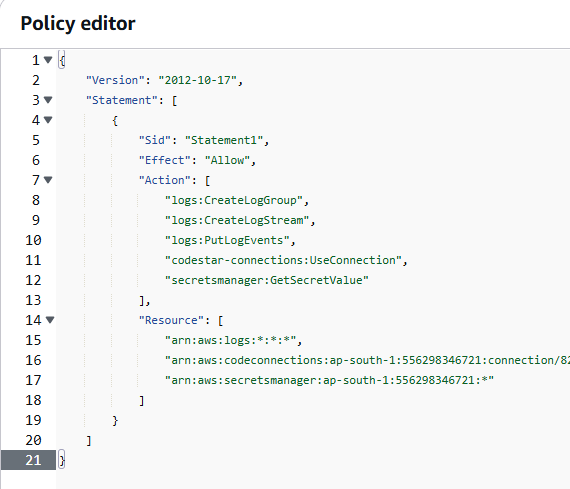
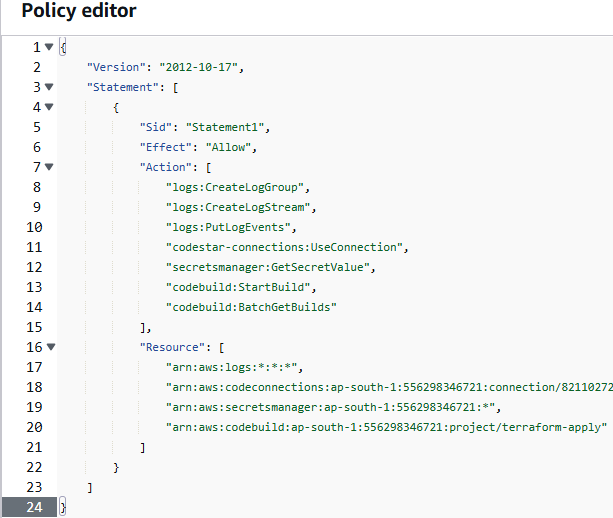
Updated README and subnet

diff --git a/README.md b/README.md
@@ -6,16 +6,16 @@
 
 ## step:3 Creating files in local repository that defines infra.
 
-Create a main.tf file which defines the required infrastructure to be build.
+Create a **main.tf** file which defines the required infrastructure to be build.
 In my case I am building an EC2 instance with latest version of amazon linux in a private subnet and attaching security group which I am going to create in further steps.
-Create build-spec.yml file which defines installing terraform and execute its commands.
+Create **build-spec.yml** file which defines installing terraform and execute its commands.
 This will destroy the previous build and create the new Infra.
 I recommend to change it according to your requirement.
-Create a backend.tf file which defined what storage is used to store the current terraform state.
+Create a **backend.tf** file which defined what storage is used to store the current terraform state.
 
 ## Step:4 Create a AWS S3 bucket using your account.
 
-Make sure you give the bucket name unique and same name mentioned in backend.tf file and also make sure you enabled bucket versioning.
+Make sure you give the bucket name unique and same name mentioned in **backend.tf** file and also make sure you enabled bucket versioning.
 
 ## Step:5 Create a AWS VPC and a new security group in it.
 
@@ -24,14 +24,32 @@ Create it as per you requirement I created private and public subnets in 2 Avail
 ## Step:6 Create an IAM role.
 Its considered to most crucial and should be done with atmost care.
 Attach EC2 access, S3 access, IAM access, cloudwatchevents access policies to the role and create an inline policy like below.
-![alt text](images/inline_policy.png)
+![alt text](images/Inline_policy.png)
 
 ## Step:7 Create a connection to your Github repo from aws developer tools.
 
 Navigate to aws developer tools --> Setting --> Connections
-Create a connestion to your github repo by providing required authentication.
+Create a connection to your github repo by providing required authentication.
+Make sure aws connector for github app has pemissions to access required repositories.
 
 ## Step:8 Create a code pipeline.
 
-Create a code pipline by giving the connection you created as source and create the build that uses the build-spec.yml file in the repo.
-Make sure you web hook it that runs the pipeline for every push in the main brach.
+First Create a code build project by giving the connection you created as source.
+Create the new OAuth app token connection by giving required credential that stores the credentials in KMS that are used to access the repo.
+Choose the environment correctly
+Specify then build-spec.yml correctly as in the repo.
+Attach the ARN of IAM role you created previously with required permissions.
+
+Now create the pipline with the github repo as source and webhook the main branch for ever push.
+choose the created build project in the build stage.
+
+## Step:9 Push the code from local repo to the main branch of github repo.
+
+As you push the code the pipeline gets triggered and starts the build.
+It build using the enviroment you specified and instructions given in yml file.
+The terraform applies the main.tf Infra and build the Infrstructure in our VPC.
+You might get a doubt how the terraform know where i.e in which VPC to create the infra?
+Since you had already attached the service role, it automatically knows who (aws account) is initiating the request and resouces created by him. 
+We also had given subnet and security group details, hence it knows in which VPC to create the required resources.
+If no details are given it creates in default VPC.
+
